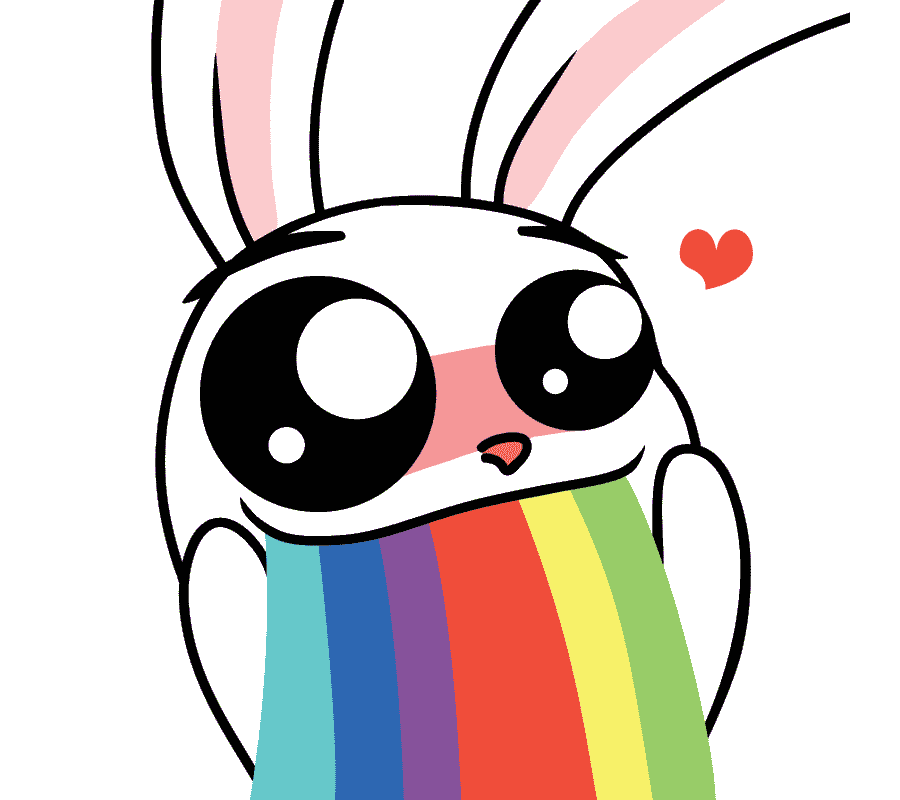
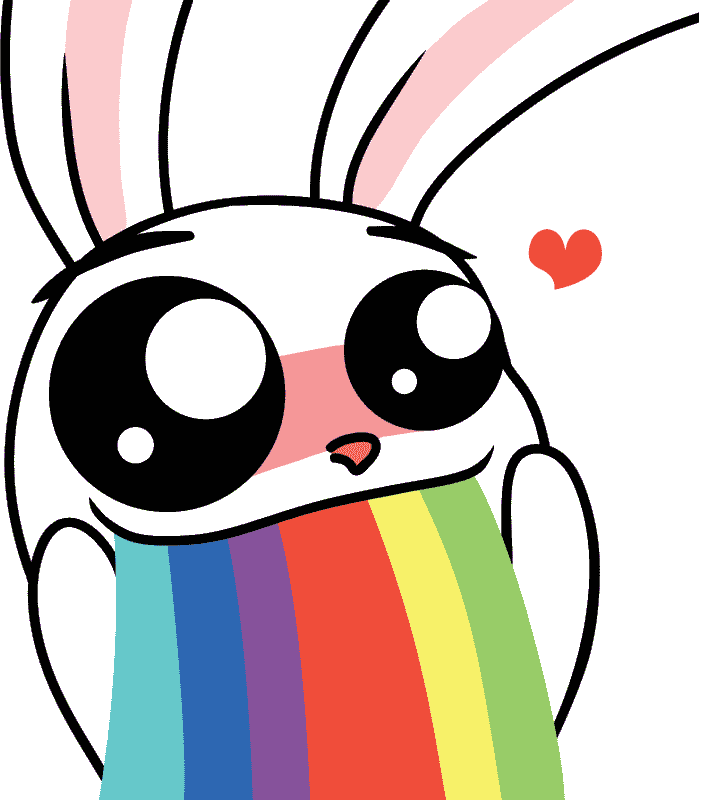
Fix mobile hero gallery, crop mascot edges, center founder photo, add timeline images
- Hide side cards on mobile to fix text truncation in hero gallery
- Crop white edges off mascot to remove gray border artifacts on dark bg
- Center founder photo in frame (object-position: center center)
- Add elegant background image to Pinned Sequence intro card
- Replace step 01 card image with professional workspace photo

diff --git a/styles.css b/styles.css
@@ -895,10 +895,10 @@ p, h1, h2, h3, h4 { margin: 0; }
   justify-content: flex-end;
   gap: 1rem;
   background:
+    linear-gradient(180deg, rgba(11, 4, 13, 0.32) 0%, rgba(11, 4, 13, 0.72) 55%, rgba(11, 4, 13, 0.92) 100%),
     radial-gradient(circle at 22% 16%, rgba(240, 214, 220, 0.18), transparent 28%),
     radial-gradient(circle at 78% 84%, rgba(216, 184, 144, 0.14), transparent 26%),
-    linear-gradient(180deg, rgba(255, 248, 249, 0.07) 0%, rgba(255, 248, 249, 0.02) 100%),
-    rgba(18, 10, 15, 0.94);
+    url('https://images.unsplash.com/photo-1618005182384-a83a8bd57fbe?auto=format&fit=crop&w=800&q=75') center center / cover no-repeat;
 }
 
 .timeline-panel-intro h3,
@@ -1065,14 +1065,8 @@ p, h1, h2, h3, h4 { margin: 0; }
   width: 100%;
   height: 100%;
   object-fit: cover;
-  object-position: center top;
+  object-position: center center;
   filter: saturate(0.96) contrast(1.02);
-  transition: transform 0.7s var(--ease-luxury), filter 0.4s ease;
-}
-
-.team-card:hover .team-photo-image {
-  transform: scale(1.05);
-  filter: saturate(1.02) contrast(1.04);
 }
 
 .team-card:nth-child(2) .team-photo-image {
@@ -2019,35 +2013,27 @@ p, h1, h2, h3, h4 { margin: 0; }
 }
 @media (max-width: 47.9375rem) {
   .hero-stage {
-    min-height: 31rem;
+    min-height: 26rem;
   }
   .hero-gallery {
-    min-height: 29rem;
+    min-height: 24rem;
   }
   .hero-visual-main {
-    inset: 8% 4% 16% 0;
-    transform: rotate(-4deg);
+    inset: 4% 2% 12% 2%;
+    transform: rotate(-2deg);
   }
   .hero-visual-side {
-    width: 8.8rem;
-    border-radius: 1.35rem;
-  }
-  .hero-visual-side.is-top {
-    right: 0;
-    top: 4%;
-  }
-  .hero-visual-side.is-bottom {
-    right: 0.25rem;
-    bottom: 4%;
+    display: none;
   }
   .hero-visual-overlay {
-    inset: auto 1rem 1rem 1rem;
+    inset: auto 0.8rem 0.8rem 0.8rem;
   }
   .hero-visual-overlay strong {
-    font-size: 1.55rem;
+    font-size: 1.35rem;
   }
   .hero-visual-overlay p {
-    font-size: 0.92rem;
+    font-size: 0.85rem;
+    max-width: none;
   }
   .hero-floating-stat {
     max-width: 10rem;

diff --git a/index.html b/index.html
@@ -574,7 +574,7 @@
               </article>
               <article class="timeline-panel timeline-panel-card is-active" data-step="01">
                 <div class="timeline-panel-media">
-                  <img src="https://images.unsplash.com/photo-1531403009284-440f080d1e12?auto=format&fit=crop&w=1400&q=80" alt="Website wireframe planning and strategy session" loading="lazy" />
+                  <img src="https://images.unsplash.com/photo-1553877522-43269d4ea984?auto=format&fit=crop&w=1400&q=80" alt="Strategy and discovery planning session" loading="lazy" />
                 </div>
                 <div class="timeline-panel-copy">
                   <div class="horizontal-scroll-year">01</div>
